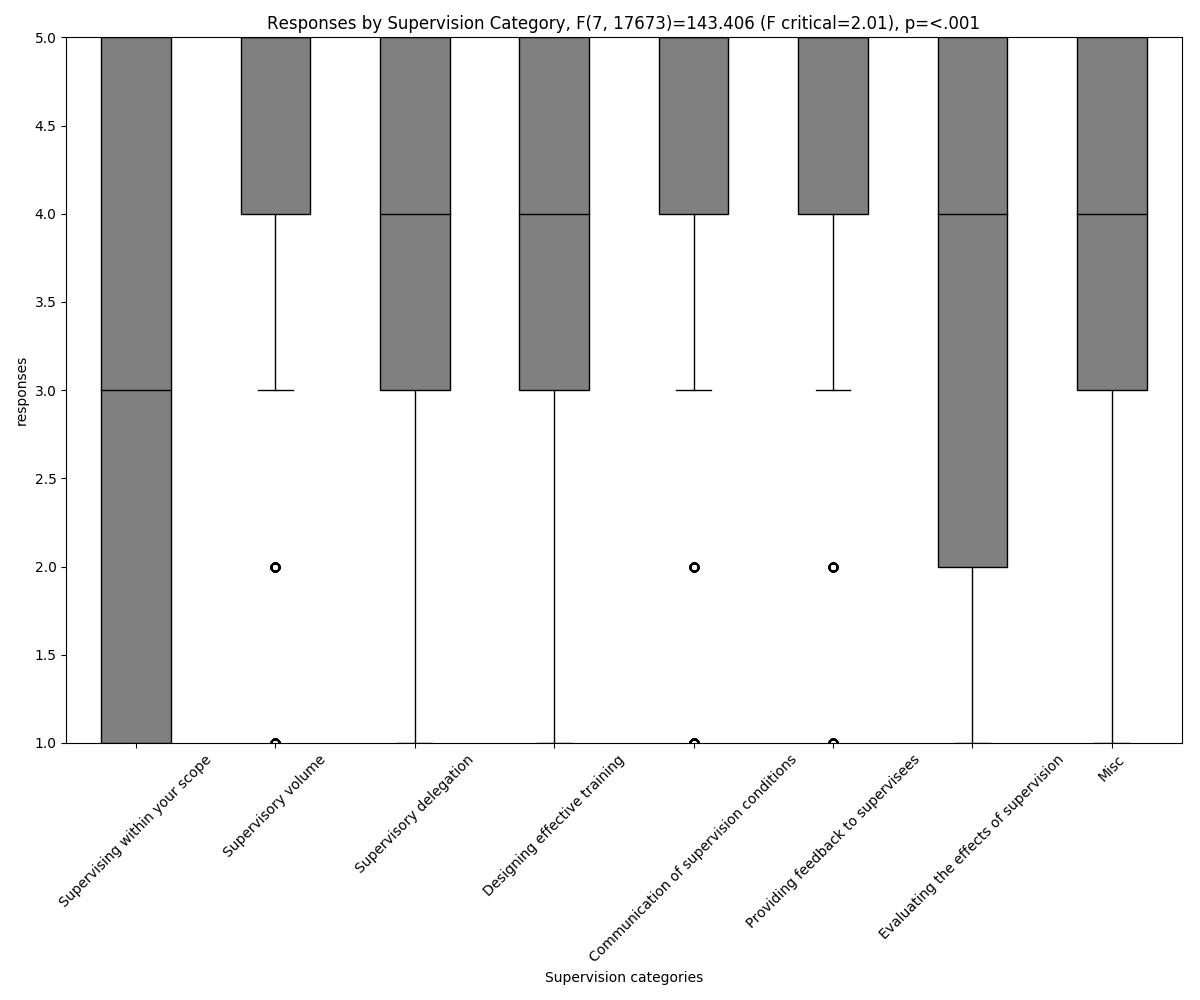
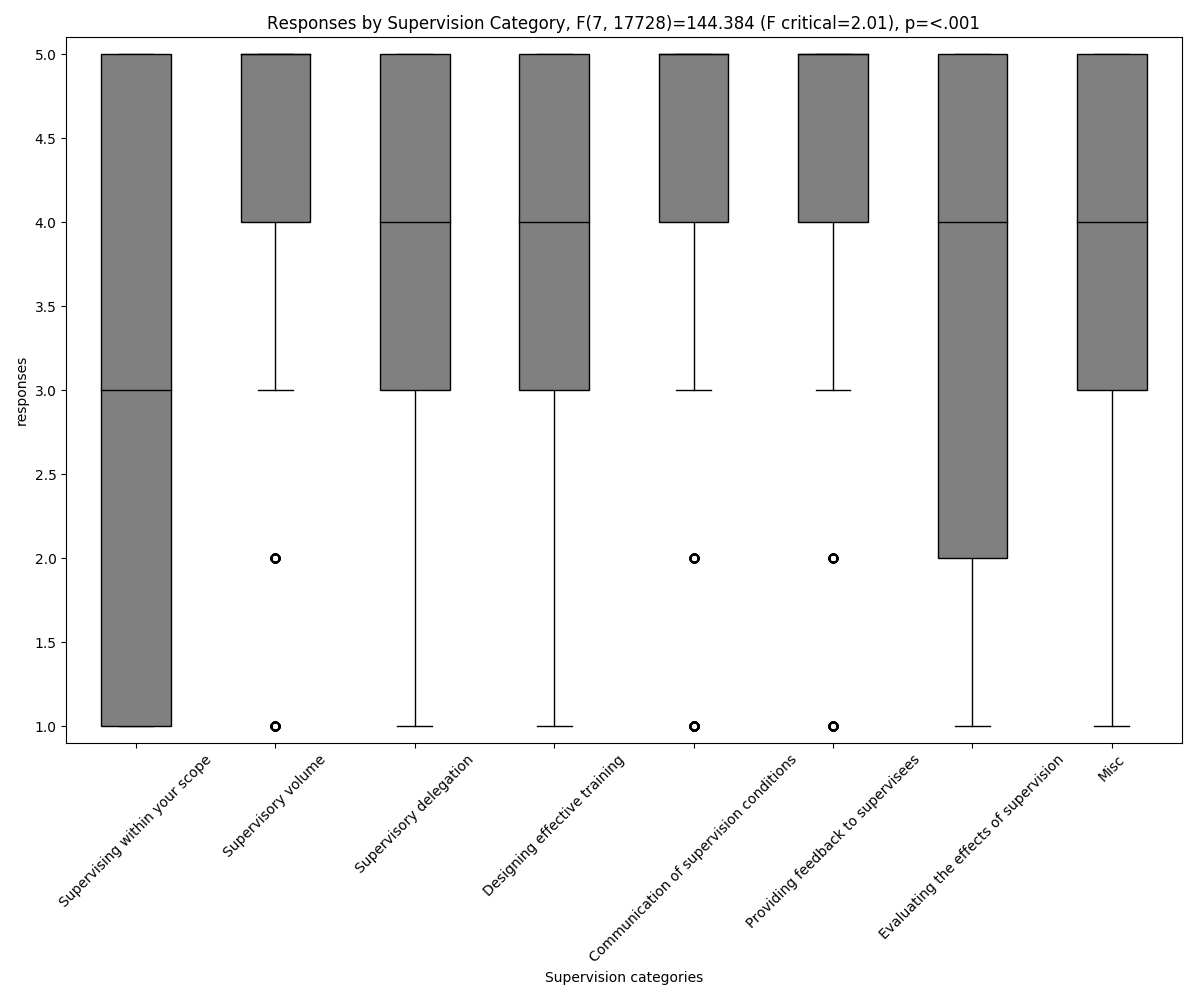
reran Q2 with new data

diff --git a/Q2/question_2_addendum.py b/Q2/question_2_addendum.py
@@ -195,7 +195,7 @@ def question2add(df):
 	_ = plt.title('Responses by Supervision Category, F('+str(dfn)+', '+str(dfd)+ \
                   ')='+str(round(f, 3))+' (F critical='+str(round(Fcrit, 3))+'), p='+p)
 
-	_ = plt.ylim(1,5)
+	_ = plt.ylim(0.9, 5.1)
 	_ = plt.xlabel('Supervision categories')
 	_ = plt.ylabel('responses')
 	_ = plt.xticks(rotation=45)
